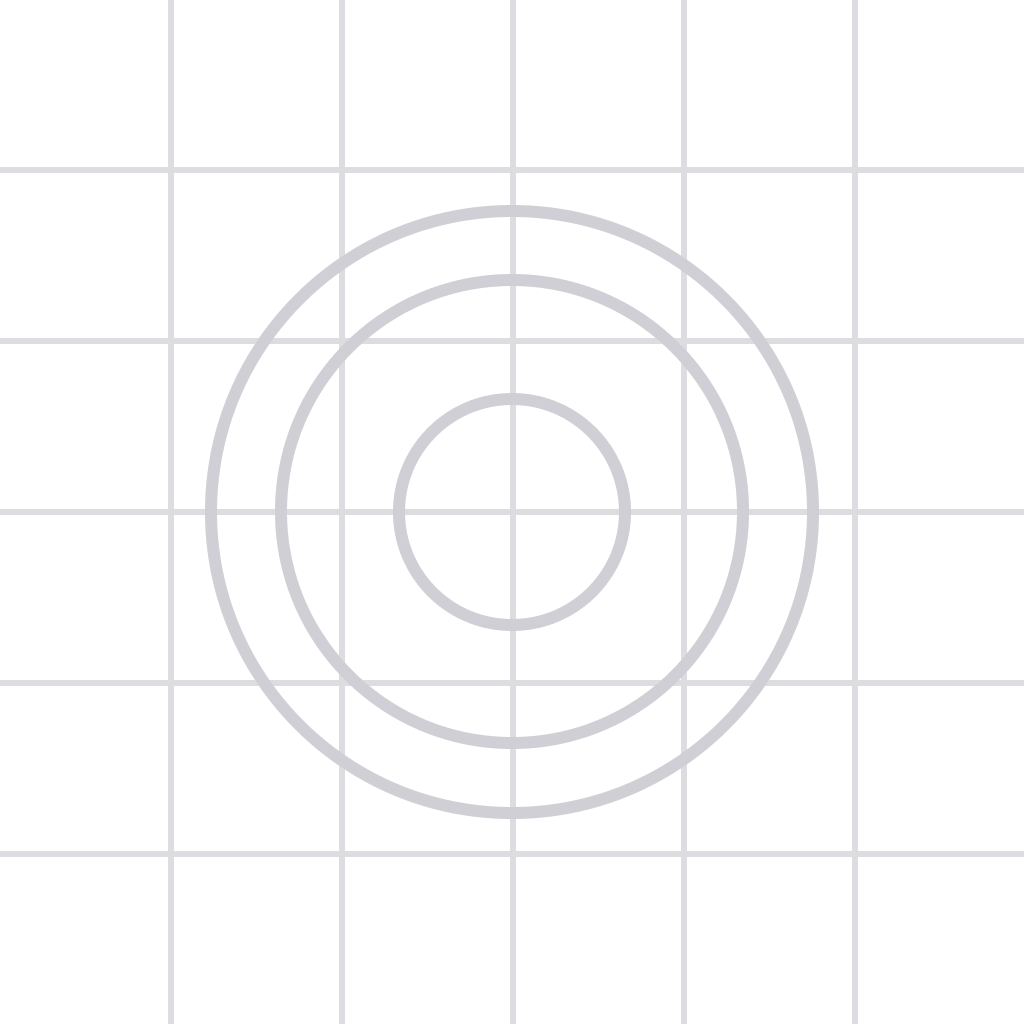
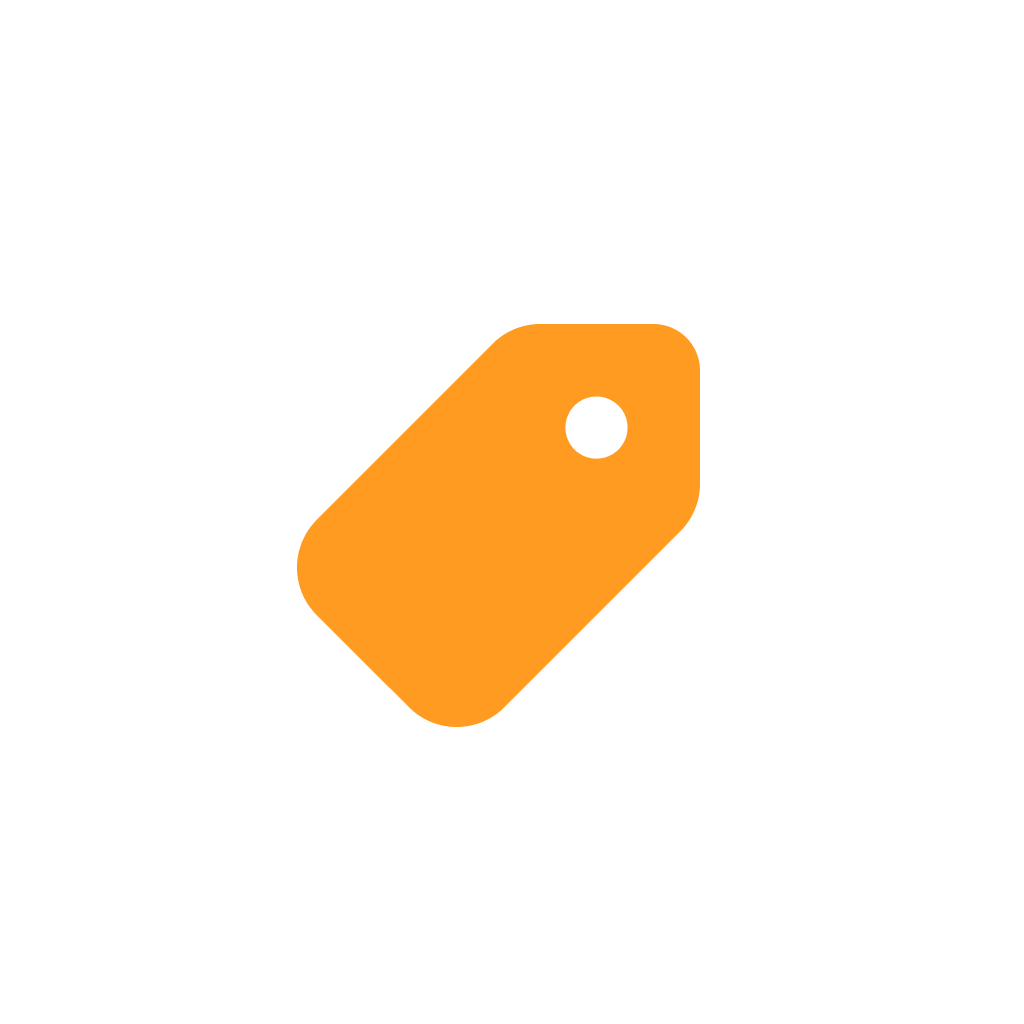
fn

Changed region(s): [[0.0, 0.0, 1.0, 1.0]]

diff --git a/MAP.md b/MAP.md
@@ -1,6 +1,9 @@
 # map-test
 
-add zoom in out scroll bar
+- add login auth supabase
+- add themes
+- add zoom in out scroll bar
+- cache map for offline viewing
 
 https://maplibre.org/maplibre-react-native/docs/setup/expo/
 https://openfreemap.org/
@@ -10,3 +13,6 @@ https://www.maptiler.com/cloud/pricing/
 - location updated every 30~60s upgrade to get more accurate data
 - have buttons on the side to lock zoom and rotate
 - poke or send some sort of signal system limited amount every time frame upgrade gets more etc
+
+https://github.com/rnmapbox/maps/issues/943
+https://icons.expo.fyi/Index

diff --git a/README.md b/README.md
@@ -139,3 +139,5 @@ https://github.com/supabase/benchmarks
 https://www.youtube.com/watch?v=BVcoxor_t88
 https://www.youtube.com/watch?v=NhDt7LsgfLk
 https://www.youtube.com/watch?v=U5qSNhUXASE
+
+https://medium.com/@julienmartin_/designing-zenly-part-i-ec7dc0a1e3ad